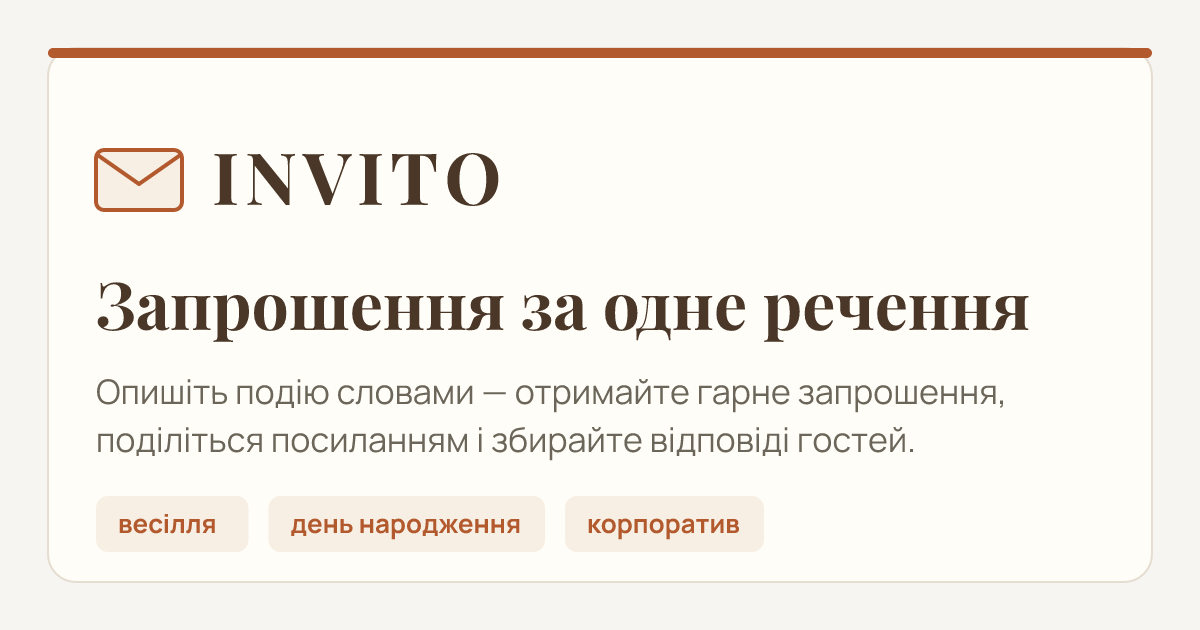
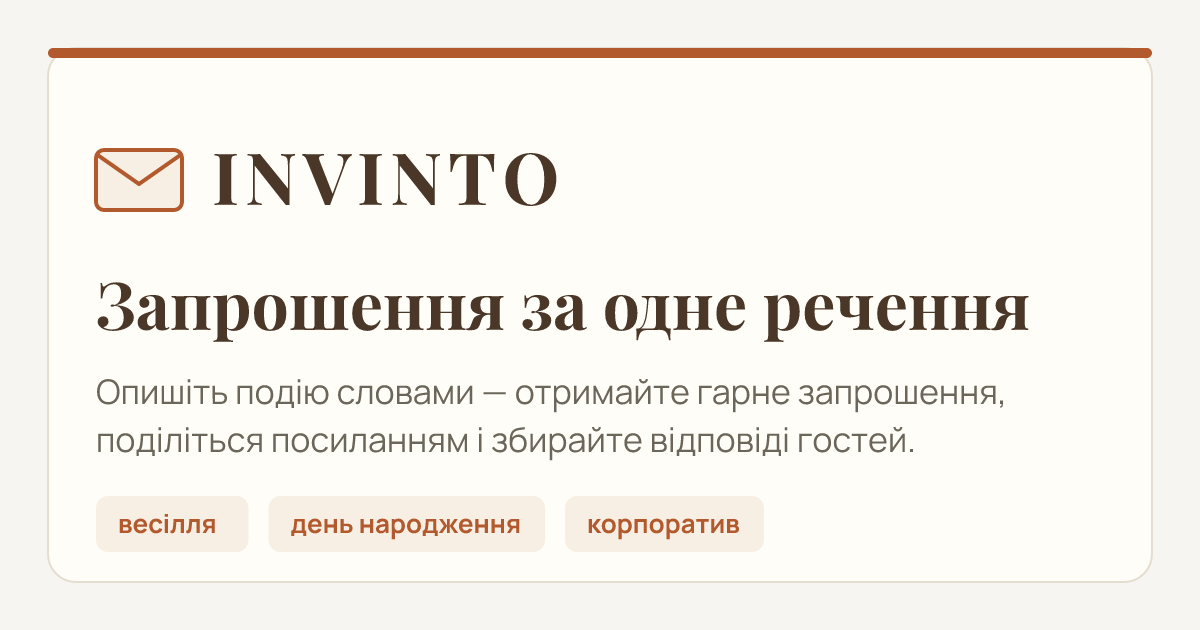
Rename the product to INVINTO, matching the domain (adr-016 §9)
Writing copy for a search listing forced the question the product had been
able to avoid: what is it called? It had four answers — `Invitation Studio`
in the shell, `INVITO` on the guest page and in email, «Запрошення» /
"Zaproshennya" as the landing wordmark, and `invinto.app` in the address bar.
A listing has room for one name and prints it next to the URL, where a
mismatch reads as someone else's site.

The name is the domain's spelling, everywhere: landing wordmark, guest page,
host dashboard, crash screen, `.ics` PRODID, reply email, unsubscribe page,
manifest, icons, share card and every search title. Links published to
invinto.app outlive any copy decision, which is what makes the address the
tiebreaker.

This retires the translated landing wordmark. `LANDING.brand` keeps its place
in the i18n table holding one value for both languages, rather than moving out
to a constant — the page reads its chrome from that table, and a name kept
half in i18n and half beside it is how a product ends up with four of them.
`lp-brand-mono` still derives its monogram from the wordmark: it no longer has
a translation to track, but deriving beats a second place to edit the name.

Earlier records are left as written. adr-013 quotes the DS guest-rsvp template
verbatim ("INVITO stays a whisper") and 06-roadmap repeats it; rewriting a
quotation to match a later decision would make the record say something it did
not say. Both carry a pointer to adr-016 §9 instead. The two live code
[…]

Changed region(s): [[0.3083, 0.2413, 0.4625, 0.3317]]

diff --git a/web/src/i18n.ts b/web/src/i18n.ts
@@ -579,6 +579,12 @@ export function saveUiLang(lang: Language): void {
 
 // Landing-page marketing copy. The sample invitations in the hero stay
 // Ukrainian on purpose — they're showcased content, not chrome.
+//
+// `brand` is the one string here that is **not** translated: the product has
+// one name and it is the domain's (adr-016 §9). It stays in the table rather
+// than becoming a constant because `LandingStrings` is what the page reads,
+// and a name that lives half in i18n and half beside it is how the two-name
+// problem started.
 export interface LandingStrings {
   brand: string;
   cta: string;
@@ -612,7 +618,7 @@ export interface LandingStrings {
 
 export const LANDING: Record<Language, LandingStrings> = {
   en: {
-    brand: "Zaproshennya",
+    brand: "INVINTO",
     cta: "Create an invitation",
     heroTitle: "An invitation from one sentence",
     heroText: "Describe your event in words — get a beautiful invitation in a minute.",
@@ -628,7 +634,7 @@ export const LANDING: Record<Language, LandingStrings> = {
     rsvpSummary: "18 coming · 3 can't make it · 5 haven't replied",
     responseLabels: { yes: "Yes", no: "No", wait: "Waiting" },
     finalTitle: "Ready to send your first invitation?",
-    footer: "Zaproshennya — simple, and Ukrainian at heart.",
+    footer: "INVINTO — simple, and Ukrainian at heart.",
     yoursTitle: "Your invitations",
     yoursTitleOne: "Your invitation",
     yoursPublished: "Published {when}",
@@ -647,7 +653,7 @@ export const LANDING: Record<Language, LandingStrings> = {
     },
   },
   uk: {
-    brand: "Запрошення",
+    brand: "INVINTO",
     cta: "Створити запрошення",
     heroTitle: "Запрошення за одне речення",
     heroText: "Опишіть подію словами — отримайте гарне запрошення за хвилину.",
@@ -664,7 +670,7 @@ export const LANDING: Record<Language, LandingStrings> = {
     rsvpSummary: "18 прийдуть · 3 не прийдуть · 5 ще не відповіли",
     responseLabels: { yes: "Так", no: "Ні", wait: "Очікує" },
     finalTitle: "Готові надіслати перше запрошення?",
-    footer: "Запрошення — просто і по-українськи.",
+    footer: "INVINTO — просто і по-українськи.",
     yoursTitle: "Ваші запрошення",
     yoursTitleOne: "Ваше запрошення",
     yoursPublished: "Опубліковано {when}",
@@ -698,45 +704,45 @@ export type SeoPage = "landing" | "create" | "manage" | "notFound";
 export const SEO: Record<Language, Record<SeoPage, { title: string; description: string }>> = {
   uk: {
     landing: {
-      title: "INVITO — електронні запрошення онлайн за одне речення",
+      title: "INVINTO — електронні запрошення онлайн за одне речення",
       description:
         "Опишіть подію одним реченням — отримайте готове запрошення на весілля, " +
         "день народження чи корпоратив, поділіться посиланням і збирайте відповіді гостей.",
     },
     create: {
-      title: "Створити запрошення — INVITO",
+      title: "Створити запрошення — INVINTO",
       description:
         "Опишіть подію своїми словами — редактор напише текст, підбере дизайн " +
         "і дасть посилання для гостей із підтвердженням присутності.",
     },
     manage: {
-      title: "Відповіді гостей — INVITO",
+      title: "Відповіді гостей — INVINTO",
       description: "Хто прийде на вашу подію — відповіді гостей на ваше запрошення.",
     },
     notFound: {
-      title: "Сторінку не знайдено — INVITO",
+      title: "Сторінку не знайдено — INVINTO",
       description: "Такої сторінки немає. Створіть запрошення на головній.",
     },
   },
   en: {
     landing: {
-      title: "INVITO — online invitations with RSVP, from one sentence",
+      title: "INVINTO — online invitations with RSVP, from one sentence",
       description:
         "Describe your event in one sentence and get a ready-made invitation for a wedding, " +
         "birthday or party. Share the link in any messenger and collect guest replies.",
     },
     create: {
-      title: "Create an invitation — INVITO",
+      title: "Create an invitation — INVINTO",
       description:
         "Describe your event in your own words — the editor writes the copy, picks a design, " +
         "and gives you a share link that collects RSVPs.",
     },
     manage: {
-      title: "Guest replies — INVITO",
+      title: "Guest replies — INVINTO",
       description: "Who is coming to your event — the replies to your invitation.",
     },
     notFound: {
-      title: "Page not found — INVITO",
+      title: "Page not found — INVINTO",
       description: "There is no such page. Start an invitation from the home page.",
     },
   },

diff --git a/web/index.html b/web/index.html
@@ -39,7 +39,7 @@
          Replaced rather than appended because `og:title` is first-one-wins in
          every unfurler that matters. Do not hand-edit: `server/test/seo.test.ts`
          pins this block to what the server generates for `/`. -->
-    <!--seo:start--><title>INVITO — електронні запрошення онлайн за одне речення</title>
+    <!--seo:start--><title>INVINTO — електронні запрошення онлайн за одне речення</title>
     <meta name="description" content="Опишіть подію одним реченням — отримайте готове запрошення на весілля, день народження чи корпоратив, поділіться посиланням і збирайте відповіді гостей.">
     <meta name="robots" content="index, follow">
     <link rel="canonical" href="https://invinto.app/">
@@ -47,19 +47,19 @@
     <link rel="alternate" hreflang="en" href="https://invinto.app/?lang=en">
     <link rel="alternate" hreflang="x-default" href="https://invinto.app/">
     <meta property="og:type" content="website">
-    <meta property="og:site_name" content="INVITO">
+    <meta property="og:site_name" content="INVINTO">
     <meta property="og:locale" content="uk_UA">
-    <meta property="og:title" content="INVITO — електронні запрошення онлайн за одне речення">
+    <meta property="og:title" content="INVINTO — електронні запрошення онлайн за одне речення">
     <meta property="og:description" content="Опишіть подію одним реченням — отримайте готове запрошення на весілля, день народження чи корпоратив, поділіться посиланням і збирайте відповіді гостей.">
     <meta property="og:image" content="https://invinto.app/og-cover.png">
     <meta property="og:image:width" content="1200">
     <meta property="og:image:height" content="630">
     <meta property="og:url" content="https://invinto.app/">
     <meta name="twitter:card" content="summary_large_image">
-    <meta name="twitter:title" content="INVITO — електронні запрошення онлайн за одне речення">
+    <meta name="twitter:title" content="INVINTO — електронні запрошення онлайн за одне речення">
     <meta name="twitter:description" content="Опишіть подію одним реченням — отримайте готове запрошення на весілля, день народження чи корпоратив, поділіться посиланням і збирайте відповіді гостей.">
     <meta name="twitter:image" content="https://invinto.app/og-cover.png">
-    <script type="application/ld+json">{"@context":"https://schema.org","@graph":[{"@type":"WebSite","@id":"https://invinto.app/#website","url":"https://invinto.app/","name":"INVITO","description":"Опишіть подію одним реченням — отримайте готове запрошення на весілля, день народження чи корпоратив, поділіться посиланням і збирайте відповіді гостей.","inLanguage":["uk","en"]},{"@type":"WebApplication","@id":"https://invinto.app/#app","name":"INVITO","url":"https://invinto.app/","description":"Опишіть подію одним реченням — отримайте готове запрошення на весілля, день народження чи корпоратив, поділіться посиланням і збирайте відповіді гостей.","applicationCategory":"LifestyleApplication","operatingSystem":"Any","browserRequirements":"Requires JavaScript.","inLanguage":["uk","en"],"isPartOf":{"@id":"https://invinto.app/#website"},"offers":{"@type":"Offer","price":"0","priceCurrency":"UAH"}}]}</script><!--seo:end-->
+    <script type="application/ld+json">{"@context":"https://schema.org","@graph":[{"@type":"WebSite","@id":"https://invinto.app/#website","url":"https://invinto.app/","name":"INVINTO","description":"Опишіть подію одним реченням — отримайте готове запрошення на весілля, день народження чи корпоратив, поділіться посиланням і збирайте відповіді гостей.","inLanguage":["uk","en"]},{"@type":"WebApplication","@id":"https://invinto.app/#app","name":"INVINTO","url":"https://invinto.app/","description":"Опишіть подію одним реченням — отримайте готове запрошення на весілля, день народження чи корпоратив, поділіться посиланням і збирайте відповіді гостей.","applicationCategory":"LifestyleApplication","operatingSystem":"Any","browserRequirements":"Requires JavaScript.","inLanguage":["uk","en"],"isPartOf":{"@id":"https://invinto.app/#website"},"offers":{"@type":"Offer","price":"0","priceCurrency":"UAH"}}]}</script><!--seo:end-->
   </head>
   <body>
     <div id="root"></div>

diff --git a/web/src/LandingPage.tsx b/web/src/LandingPage.tsx
@@ -18,9 +18,10 @@ import { langFromSearch, routeMeta, useDocumentMeta } from "./seo";
 import type { DesignTokens, InvitationCopy, Language } from "./types";
 
 // Ported from the "Тепла класика" landing direction designed in Claude Design.
-// Chrome copy is bilingual (LANDING strings); the hero composes the real
-// InvitationPreview component with three sample events whose content stays
-// Ukrainian on purpose — invitations are showcased content, not chrome.
+// Chrome copy is bilingual (LANDING strings) — with the wordmark as the one
+// exception, because a name is not copy (adr-016 §9). The hero composes the
+// real InvitationPreview component with three sample events whose content
+// stays Ukrainian on purpose — invitations are showcased content, not chrome.
 
 const samples: { copy: InvitationCopy; design: DesignTokens }[] = [
   {
@@ -181,8 +182,10 @@ export function LandingPage() {
       <header className={`lp-nav${showNavCount ? " lp-nav-counted" : ""}`}>
         <span className="lp-brand">
           <span className="lp-brand-full">{t.brand}</span>
-          {/* Derived, never a translated string: the monogram is the brand's
-              own first letter, so it follows the language automatically. */}
+          {/* Derived, never its own string: the monogram is the brand's first
+              letter. It used to be what kept a *translated* wordmark's initial
+              honest; the name is one word in both languages now (adr-016 §9),
+              and deriving it still beats a second place to edit the name. */}
           <span className="lp-brand-mono">{[...t.brand][0]}</span>
         </span>
         <div className="lp-nav-right">

diff --git a/server/src/unsubscribePage.ts b/server/src/unsubscribePage.ts
@@ -54,7 +54,7 @@ const STRINGS: Record<Language, PageStrings> = {
       "Відповіді залишаються на сторінках ваших запрошень. Увімкнути листи знову можна в панелі після публікації.",
     deadTitle: "Це посилання вже не діє",
     deadBody: "Керувати листами можна в самому запрошенні — відкрийте його у своєму акаунті.",
-    back: "Повернутися до INVITO",
+    back: "Повернутися до INVINTO",
     other: "EN",
   },
   en: {
@@ -67,7 +67,7 @@ const STRINGS: Record<Language, PageStrings> = {
       "The replies stay on your invitation pages. You can turn emails back on from the share panel after you publish.",
     deadTitle: "This link no longer works",
     deadBody: "You can manage emails from your invitation — open it while signed in.",
-    back: "Back to INVITO",
+    back: "Back to INVINTO",
     other: "УКР",
   },
 };
@@ -166,7 +166,7 @@ export function renderUnsubscribePage(state: UnsubscribeState, language: Languag
 <meta charset="utf-8">
 <meta name="viewport" content="width=device-width, initial-scale=1">
 <meta name="robots" content="noindex">
-<title>${title} · INVITO</title>
+<title>${title} · INVINTO</title>
 <style>${STYLE}</style>
 </head>
 <body>
@@ -177,7 +177,7 @@ export function renderUnsubscribePage(state: UnsubscribeState, language: Languag
 ${hint}
 ${action}
 <a class="u-back" href="/">${t.back}</a>
-<div class="u-mark">INVITO</div>
+<div class="u-mark">INVINTO</div>
 </body>
 </html>`;
 }

diff --git a/web/src/components/guest/GuestCta.tsx b/web/src/components/guest/GuestCta.tsx
@@ -7,10 +7,11 @@ import type { GuestStrings } from "../../i18n";
  * the economics can afford.
  *
  * The wordmark keeps the exact values it had as a static `gr-brand`. The DS
- * guest-rsvp template states the intent this has to respect — "INVITO stays a
- * whisper" — so the action is one muted line beneath it, in the same treatment
- * as `gr-change` elsewhere on the page. Nothing on the page gets louder; one
- * thing becomes legible as an action.
+ * guest-rsvp template states the intent this has to respect — the wordmark
+ * stays a whisper — so the action is one muted line beneath it, in the same
+ * treatment as `gr-change` elsewhere on the page. Nothing on the page gets
+ * louder; one thing becomes legible as an action. (The template phrases that
+ * rule with the old name; adr-016 §9 renamed it, the rule is unchanged.)
  *
  * One component rather than a treatment scattered across guest states,
  * because §5.2 proposes selling the removal of exactly this.
@@ -23,9 +24,9 @@ export function GuestCta({ t }: { t: GuestStrings }) {
   return (
     <Link className="gr-cta" to="/create?ref=guest">
       {/* Hidden from the accessible name so the link reads as its action —
-          "create your own invitation", not "INVITO create your own …". */}
+          "create your own invitation", not "INVINTO create your own …". */}
       <span className="gr-cta-mark" aria-hidden="true">
-        INVITO
+        INVINTO
       </span>
       <span className="gr-cta-line">{t.ctaLine}</span>
     </Link>

diff --git a/server/test/seo.test.ts b/server/test/seo.test.ts
@@ -25,7 +25,7 @@ describe("shellMeta", () => {
     expect(meta.robots).toBe("index, follow");
     expect(meta.canonical).toBe(`${BASE}/`);
     expect(meta.url).toBe(`${BASE}/`);
-    expect(meta.title).toContain("INVITO");
+    expect(meta.title).toContain("INVINTO");
     expect(meta.jsonLd).toContain("WebApplication");
   });
 
@@ -34,7 +34,7 @@ describe("shellMeta", () => {
   it("serves the English landing page under ?lang=en", () => {
     const meta = shellMeta("/", "lang=en", BASE);
     expect(meta.lang).toBe("en");
-    expect(meta.title).toBe("INVITO — online invitations with RSVP, from one sentence");
+    expect(meta.title).toBe("INVINTO — online invitations with RSVP, from one sentence");
     expect(meta.canonical).toBe(`${BASE}/?lang=en`);
   });
 
@@ -320,7 +320,7 @@ describe.skipIf(!spaBuilt)("shell metadata over HTTP", () => {
     const page = await app.inject({ method: "GET", url: `/i/${id}` });
     expect(page.body.match(/property="og:title"/g)).toHaveLength(1);
     expect(page.body).toContain(`og:title" content="${invitation.copy.title}"`);
-    expect(page.body).not.toContain("INVITO — електронні запрошення");
+    expect(page.body).not.toContain("INVINTO — електронні запрошення");
     // Shareable and unindexable at once: a guest page carries a host's date,
     // venue and family name, and no unfurler consults `robots`.
     expect(page.body).toContain('name="robots" content="noindex, nofollow"');

diff --git a/server/test/email.test.ts b/server/test/email.test.ts
@@ -24,7 +24,7 @@ function requestOf(spy: ReturnType<typeof vi.fn>): {
 
 function configure() {
   vi.stubEnv("RESEND_API_KEY", "re_test_key");
-  vi.stubEnv("NOTIFY_FROM", "INVITO <replies@invinto.app>");
+  vi.stubEnv("NOTIFY_FROM", "INVINTO <replies@invinto.app>");
 }
 
 function notification(overrides: Partial<Parameters<typeof renderReplyNotification>[0]> = {}) {
@@ -126,7 +126,7 @@ describe("reply notification", () => {
     // Asserted on the HTML: the text part wraps at 68 characters, so a whole
     // sentence is not on one line there by construction.
     expect(notification({ language: "en", title: "My birthday" }).html).toContain(
-      "You&#39;re getting this because you created the invitation “My birthday” on INVITO.",
+      "You&#39;re getting this because you created the invitation “My birthday” on INVINTO.",
     );
     expect(notification().html).toContain("Ви отримали цей лист");
     expect(notification({ language: "en", title: "My birthday" }).text).toContain(
@@ -225,7 +225,7 @@ describe("sendEmail", () => {
       expect(request.url).toBe("https://api.resend.com/emails");
       expect(request.headers.Authorization).toBe("Bearer re_test_key");
       expect(request.body).toMatchObject({
-        from: "INVITO <replies@invinto.app>",
+        from: "INVINTO <replies@invinto.app>",
         to: ["host@example.com"],
         subject: "3 нові відповіді",
         html: "<p>hi</p>",

diff --git a/server/src/email/strings.ts b/server/src/email/strings.ts
@@ -47,18 +47,18 @@ const STRINGS: Record<Language, EmailStrings> = {
     subject: "{count} — {title}",
     lead: "Гості почали відповідати. Повний список — на сторінці запрошення.",
     cta: "Переглянути відповіді",
-    why: "Ви отримали цей лист, бо створили запрошення «{title}» в INVITO.",
+    why: "Ви отримали цей лист, бо створили запрошення «{title}» в INVINTO.",
     unsubscribe: "Не надсилати мені такі листи",
-    wordmark: "INVITO",
+    wordmark: "INVINTO",
   },
   en: {
     replyForms: ["new reply", "new replies", "new replies"],
     subject: "{count} — {title}",
     lead: "Guests have started replying. The full list is on your invitation page.",
     cta: "See the replies",
-    why: "You're getting this because you created the invitation “{title}” on INVITO.",
+    why: "You're getting this because you created the invitation “{title}” on INVINTO.",
     unsubscribe: "Turn these emails off",
-    wordmark: "INVITO",
+    wordmark: "INVINTO",
   },
 };
 

diff --git a/web/test/seo.test.tsx b/web/test/seo.test.tsx
@@ -32,7 +32,7 @@ describe("routeMeta", () => {
     const meta = routeMeta("landing", "uk");
     expect(meta.robots).toBe("index, follow");
     expect(meta.canonical).toBe(`${window.location.origin}/`);
-    expect(meta.title).toContain("INVITO");
+    expect(meta.title).toContain("INVINTO");
   });
 
   // The canonical follows the URL, not the language on screen: a returning
@@ -75,12 +75,12 @@ describe("applyDocumentMeta", () => {
   it("writes the title, description, robots and language", () => {
     applyDocumentMeta({
       lang: "en",
-      title: "Create an invitation — INVITO",
+      title: "Create an invitation — INVINTO",
       description: "A description.",
       robots: "noindex, follow",
       canonical: null,
     });
-    expect(document.title).toBe("Create an invitation — INVITO");
+    expect(document.title).toBe("Create an invitation — INVINTO");
     expect(document.documentElement.lang).toBe("en");
     expect(document.head.querySelector('meta[name="description"]')?.getAttribute("content")).toBe(
       "A description.",

diff --git a/web/test/GuestCta.test.tsx b/web/test/GuestCta.test.tsx
@@ -33,7 +33,7 @@ describe("GuestCta", () => {
   it("reads as its action, not as the wordmark", () => {
     renderCta("en");
     // The mark is aria-hidden, so the accessible name is the thing the link
-    // actually does — "INVITO create your own invitation" would be noise.
+    // actually does — "INVINTO create your own invitation" would be noise.
     expect(screen.getByRole("link", { name: "Create your own invitation" })).toBeDefined();
   });
 
@@ -50,7 +50,7 @@ describe("GuestCta", () => {
     renderCta("uk");
     // Values inherited from .gr-brand — the DS guest-rsvp intent is that the
     // mark does not get louder when it gains a job (adr-013 §7).
-    const mark = screen.getByText("INVITO");
+    const mark = screen.getByText("INVINTO");
     expect(mark.className).toBe("gr-cta-mark");
     expect(mark.getAttribute("aria-hidden")).toBe("true");
   });

diff --git a/web/src/styles.css b/web/src/styles.css
@@ -561,7 +561,7 @@ button.primary:disabled { opacity: 0.5; cursor: default; }
 /* Guest page ------------------------------------------------------------ */
 /* From the "guest-rsvp" template in the E-invitation DS project: the
    invitation is the hero, the reply is a quiet white card; the attending
-   toggle is the emotional center; INVITO stays a whisper. */
+   toggle is the emotional center; the wordmark stays a whisper. */
 
 .gr-page { min-height: 100dvh; background: #f6f5f2; padding: 22px 20px 18px; }
 .gr-status { text-align: center; color: #6b6659; margin-top: 48px; }

diff --git a/server/src/seo.ts b/server/src/seo.ts
@@ -22,7 +22,7 @@ import type { Language } from "./schemas.js";
  *  the wordmark in `email/strings.ts` and `unsubscribePage.ts` — the landing
  *  page's "Запрошення"/"Zaproshennya" is a translated headline, not the name
  *  a search result should carry. */
-export const SITE_NAME = "INVITO";
+export const SITE_NAME = "INVINTO";
 
 /** 1200×630, the same canvas the per-invitation card uses (`og/render.ts`).
  *  Static and committed rather than rendered: the marketing card never varies,
